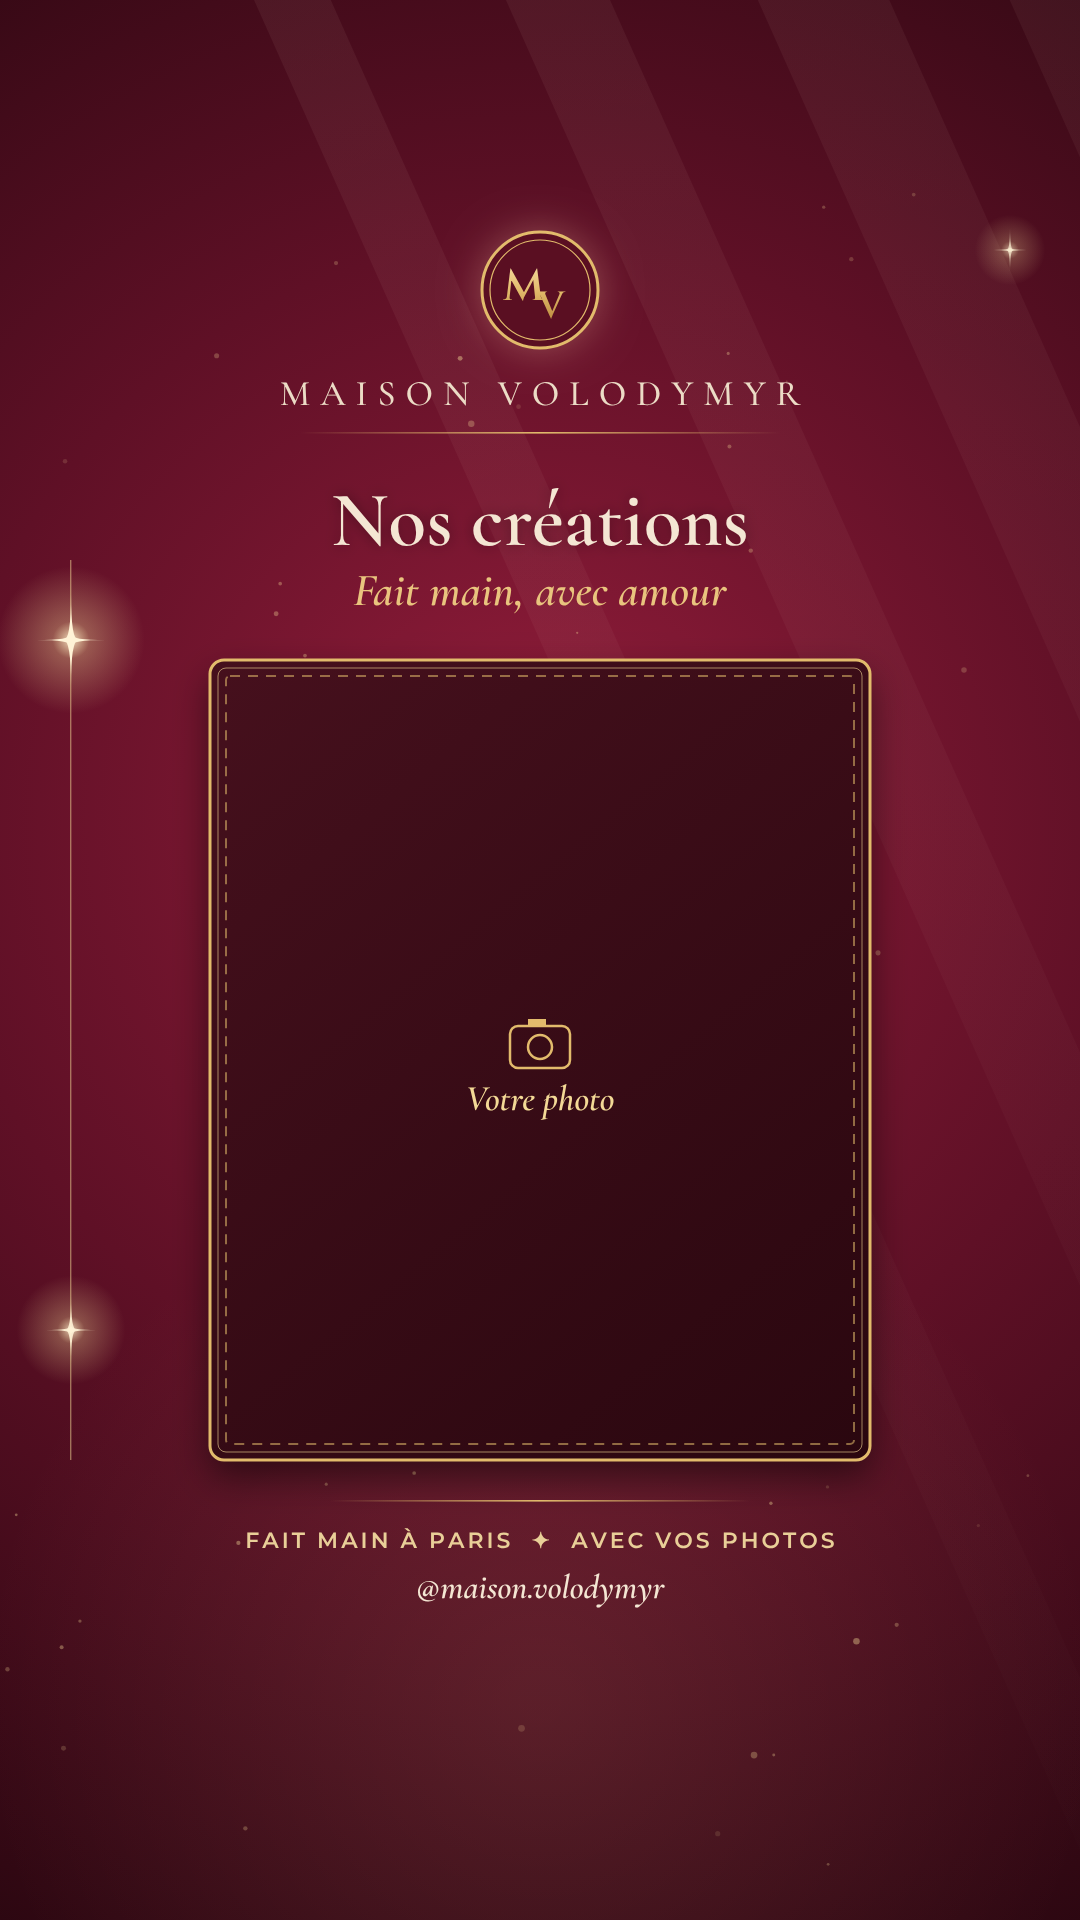
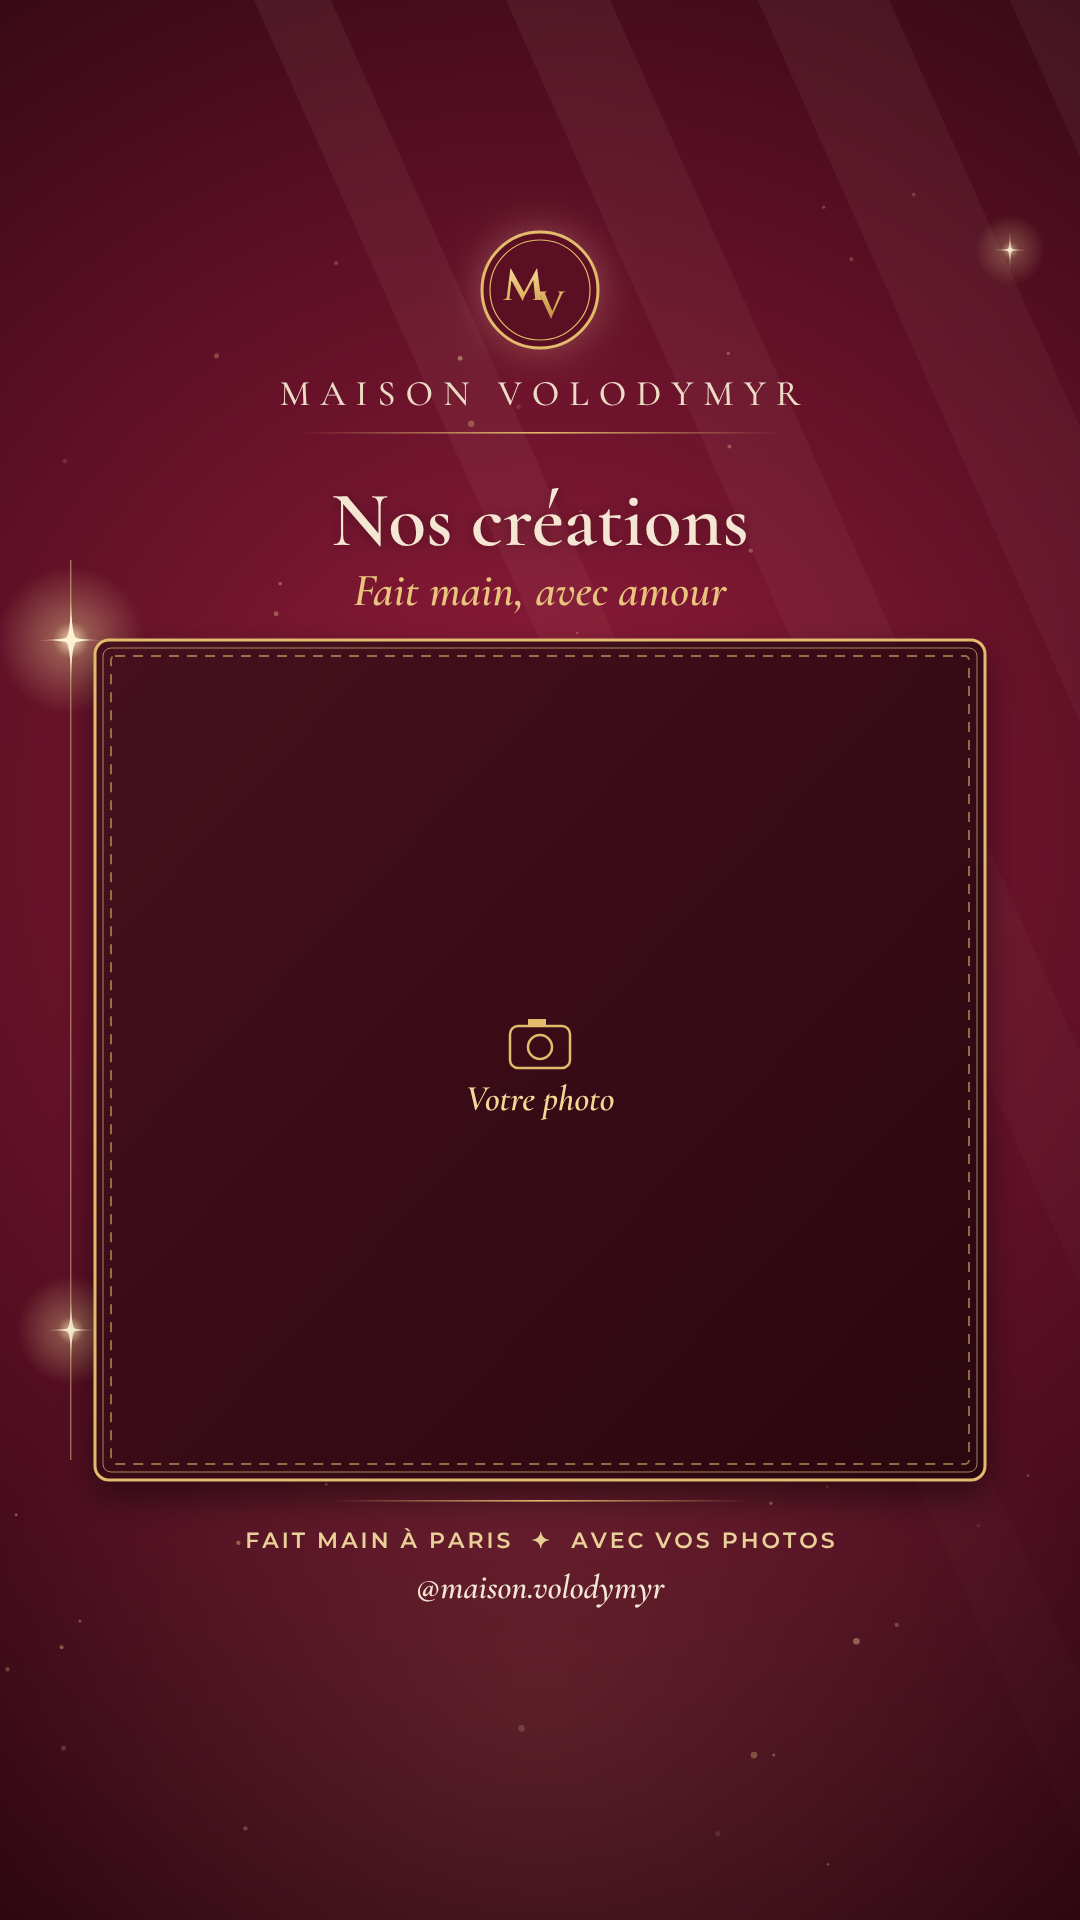
Studio: bigger showcase frame, text review slide with auto-fitting quote
Claude-Session: https://claude.ai/code/session_01NVYZfQU8cBxnfbyUcCNFxq

Changed region(s): [[0.0611, 0.3125, 0.9167, 0.7812]]

diff --git a/studio/studio.html b/studio/studio.html
@@ -71,8 +71,10 @@ const SL=[
   el:[{t:'slot',x:85,y:670,w:430,h:320,k:'gold',tag:'{n1}'},{t:'pill',x:300,y:990,txt:'{p1}',sz:44},{t:'slot',x:565,y:670,w:430,h:320,k:'gold',tag:'{n2}'},{t:'pill',x:780,y:990,txt:'{p2}',sz:44},
       {t:'slot',x:85,y:1045,w:430,h:320,k:'gold',tag:'{n3}'},{t:'pill',x:300,y:1365,txt:'{p3}',sz:44},{t:'slot',x:565,y:1045,w:430,h:320,k:'gold',tag:'{n4}'},{t:'pill',x:780,y:1365,txt:'{p4}',sz:44},{t:'small',x:540,y:1450,txt:'{small}'}]},
  {id:'creations',name:'✨ Наши работы',title:'{t}',sub:'{sb}',f:{t:'Nos créations',sb:'Fait main, avec amour'},fl:{t:'Заголовок',sb:'Подзаголовок'},
-  el:[{t:'slot',x:210,y:660,w:660,h:800,k:'gold'}]},
+  el:[{t:'slot',x:95,y:640,w:890,h:840,k:'gold'}]},
  {id:'fond',name:'🎨 Пустой фон',title:'{t}',sub:'{sb}',f:{t:'Nos créations',sb:'Fait main, avec amour'},fl:{t:'Заголовок (можно стереть)',sb:'Подзаголовок (можно стереть)'},el:[]},
+ {id:'avistxt',name:'💬 Отзыв текстом',title:'Vos avis',sub:'Merci pour vos mots doux',ta:['mot'],f:{mot:'Écrivez ici le commentaire de votre client.',nom:'— Prénom du client'},fl:{mot:'Комментарий клиента (вставь текст)',nom:'Подпись: имя клиента'},
+  el:[{t:'quote',x:90,y:660,w:900,h:640,txt:'{mot}'},{t:'stars',x:540,y:1370},{t:'small',x:540,y:1445,txt:'{nom}'}]},
  {id:'avis',name:'⭐ Отзывы',title:'Vos avis',sub:'Merci pour vos mots doux',f:{nom:'— Prénom du client',mot:'Collez ici les mots de votre client'},fl:{nom:'Подпись: имя настоящего клиента',mot:'Цитата из его настоящего отзыва'},
   el:[{t:'it',x:540,y:700,txt:'« {mot} »',s:40},{t:'slot',x:150,y:740,w:780,h:560,k:'gold'},{t:'stars',x:540,y:1365},{t:'small',x:540,y:1445,txt:'{nom}'}]},
  {id:'coffrets',name:'🎁 Наборы',title:'Coffrets cadeaux',sub:'Prêts à offrir, coffret inclus',f:{n1:'Coffret Prestige',p1:'',n2:'Coffret Famille',p2:'',n3:'Coffret Noël',p3:''},fl:{n1:'Набор 1',p1:'Цена 1',n2:'Набор 2',p2:'Цена 2',n3:'Набор 3',p3:'Цена 3'},
@@ -142,6 +144,14 @@ function draw(){
   else if(e.t=='size'){ctx.font='600 48px '+DISP;ctx.fillStyle=goldGrad(e.y-44,e.y);ctx.textAlign='left';ctx.fillText(fill(s,e.txt),e.x,e.y)}
   else if(e.t=='arrow'){if(e.need&&!String(s.f[e.need]||'').trim())continue;ctx.strokeStyle='#e2bb6c';ctx.lineWidth=2.5;ctx.beginPath();ctx.moveTo(e.x1,e.y1);ctx.lineTo(e.x2,e.y2);ctx.moveTo(e.x2-16,e.y2-11);ctx.lineTo(e.x2,e.y2);ctx.lineTo(e.x2-16,e.y2+11);ctx.stroke()}
   else if(e.t=='it'){ctx.font=ITAL.replace('{s}',e.s||32);ctx.fillStyle='#f3d996';ctx.textAlign='center';ctx.fillText(fill(s,e.txt),e.x,e.y)}
+  else if(e.t=='quote'){const t=fill(s,e.txt).trim();
+   ctx.save();ctx.shadowColor='rgba(0,0,0,.5)';ctx.shadowBlur=36;ctx.shadowOffsetY=16;rr(e.x,e.y,e.w,e.h,28);const g=ctx.createLinearGradient(e.x,e.y,e.x+e.w,e.y+e.h);g.addColorStop(0,'rgba(70,14,30,.92)');g.addColorStop(1,'rgba(30,5,12,.92)');ctx.fillStyle=g;ctx.fill();ctx.restore();
+   ctx.lineWidth=3;ctx.strokeStyle='#e2bb6c';rr(e.x,e.y,e.w,e.h,28);ctx.stroke();ctx.lineWidth=1;ctx.strokeStyle='rgba(243,217,150,.55)';rr(e.x+10,e.y+10,e.w-20,e.h-20,20);ctx.stroke();
+   ctx.font='600 200px "Cormorant Garamond",Georgia,serif';ctx.fillStyle='rgba(226,187,108,.35)';ctx.textAlign='left';ctx.fillText('“',e.x+40,e.y+190);ctx.textAlign='right';ctx.fillText('”',e.x+e.w-40,e.y+e.h+60);
+   const padX=90,maxW=e.w-padX*2,areaH=e.h-170;let fs=56,lines=[];
+   const wrap=f=>{ctx.font=`italic 500 ${f}px "Cormorant Garamond",Georgia,serif`;const out=[];t.split('\n').forEach(par=>{let ln='';par.split(/\s+/).filter(Boolean).forEach(w=>{const tr=ln?ln+' '+w:w;if(ctx.measureText(tr).width>maxW&&ln){out.push(ln);ln=w}else ln=tr});out.push(ln)});return out};
+   while(fs>26){lines=wrap(fs);if(lines.length*fs*1.25<=areaH)break;fs-=2}
+   const lh=fs*1.25,top=e.y+e.h/2-lines.length*lh/2+fs*0.8;ctx.fillStyle='#f6e9d6';ctx.textAlign='center';lines.forEach((l,i)=>ctx.fillText(l,e.x+e.w/2,top+i*lh));}
   else if(e.t=='stars'){for(let k=0;k<5;k++){const cx=e.x+(k-2)*70,cy=e.y;ctx.beginPath();for(let j=0;j<10;j++){const r=j%2?13:30,an=-Math.PI/2+j*Math.PI/5;ctx.lineTo(cx+r*Math.cos(an),cy+r*Math.sin(an))}ctx.closePath();ctx.fillStyle=goldGrad(cy-30,cy+30);ctx.save();ctx.shadowColor='rgba(243,217,150,.6)';ctx.shadowBlur=18;ctx.fill();ctx.restore()}}
   else if(e.t=='small'){ctx.font='500 24px '+SANS;ctx.fillStyle='#f6e9d6';ctx.textAlign='center';ctx.fillText(fill(s,e.txt),e.x,e.y)}
  }
@@ -155,7 +165,7 @@ $('#tabs').addEventListener('click',e=>{const b=e.target.closest('button');if(!b
 function panel(){
  const s=SL[cur];
  $('#panel').innerHTML=`<h2>Фото</h2>${slotsOf(s).map((e,i)=>{const d=IM[s.id+'.'+i];return `<div class="slot"><div class="row"><b>Рамка ${i+1}${e.tag?' · '+esc(fill(s,e.tag)):''}</b><button class="btn" data-pick="${i}">${d?'Заменить':'Вставить фото'}</button>${d?`<button class="btn x" data-del="${i}" aria-label="Убрать фото">×</button>`:''}</div>${d?`<div><label for="z${i}">Масштаб</label><input type="range" id="z${i}" min="1" max="3" step="0.01" value="${d.zoom}" data-zoom="${i}"></div>`:''}</div>`}).join('')}
- <h2>Тексты и цены</h2>${Object.keys(s.f).map(k=>`<div><label for="f_${k}">${esc(s.fl[k]||k)}</label><input type="text" id="f_${k}" value="${esc(s.f[k])}" data-f="${k}"></div>`).join('')}
+ <h2>Тексты и цены</h2>${Object.keys(s.f).map(k=>`<div><label for="f_${k}">${esc(s.fl[k]||k)}</label>${(s.ta||[]).includes(k)?`<textarea id="f_${k}" rows="6" data-f="${k}" style="width:100%;padding:9px 11px;border-radius:10px;border:1px solid var(--line);background:#1f070b;color:var(--ink);font:inherit;resize:vertical">${esc(s.f[k])}</textarea>`:`<input type="text" id="f_${k}" value="${esc(s.f[k])}" data-f="${k}">`}</div>`).join('')}
  <div><label for="ft1">Нижняя полоса, строка 1</label><input type="text" id="ft1" value="${esc(FOOT.f1)}" data-foot="f1"></div><div><label for="ft2">Нижняя полоса, строка 2</label><input type="text" id="ft2" value="${esc(FOOT.f2)}" data-foot="f2"></div>
  <button class="btn main" id="save">Сохранить PNG</button><div class="msg" id="msg" role="status"></div>`;
 }
